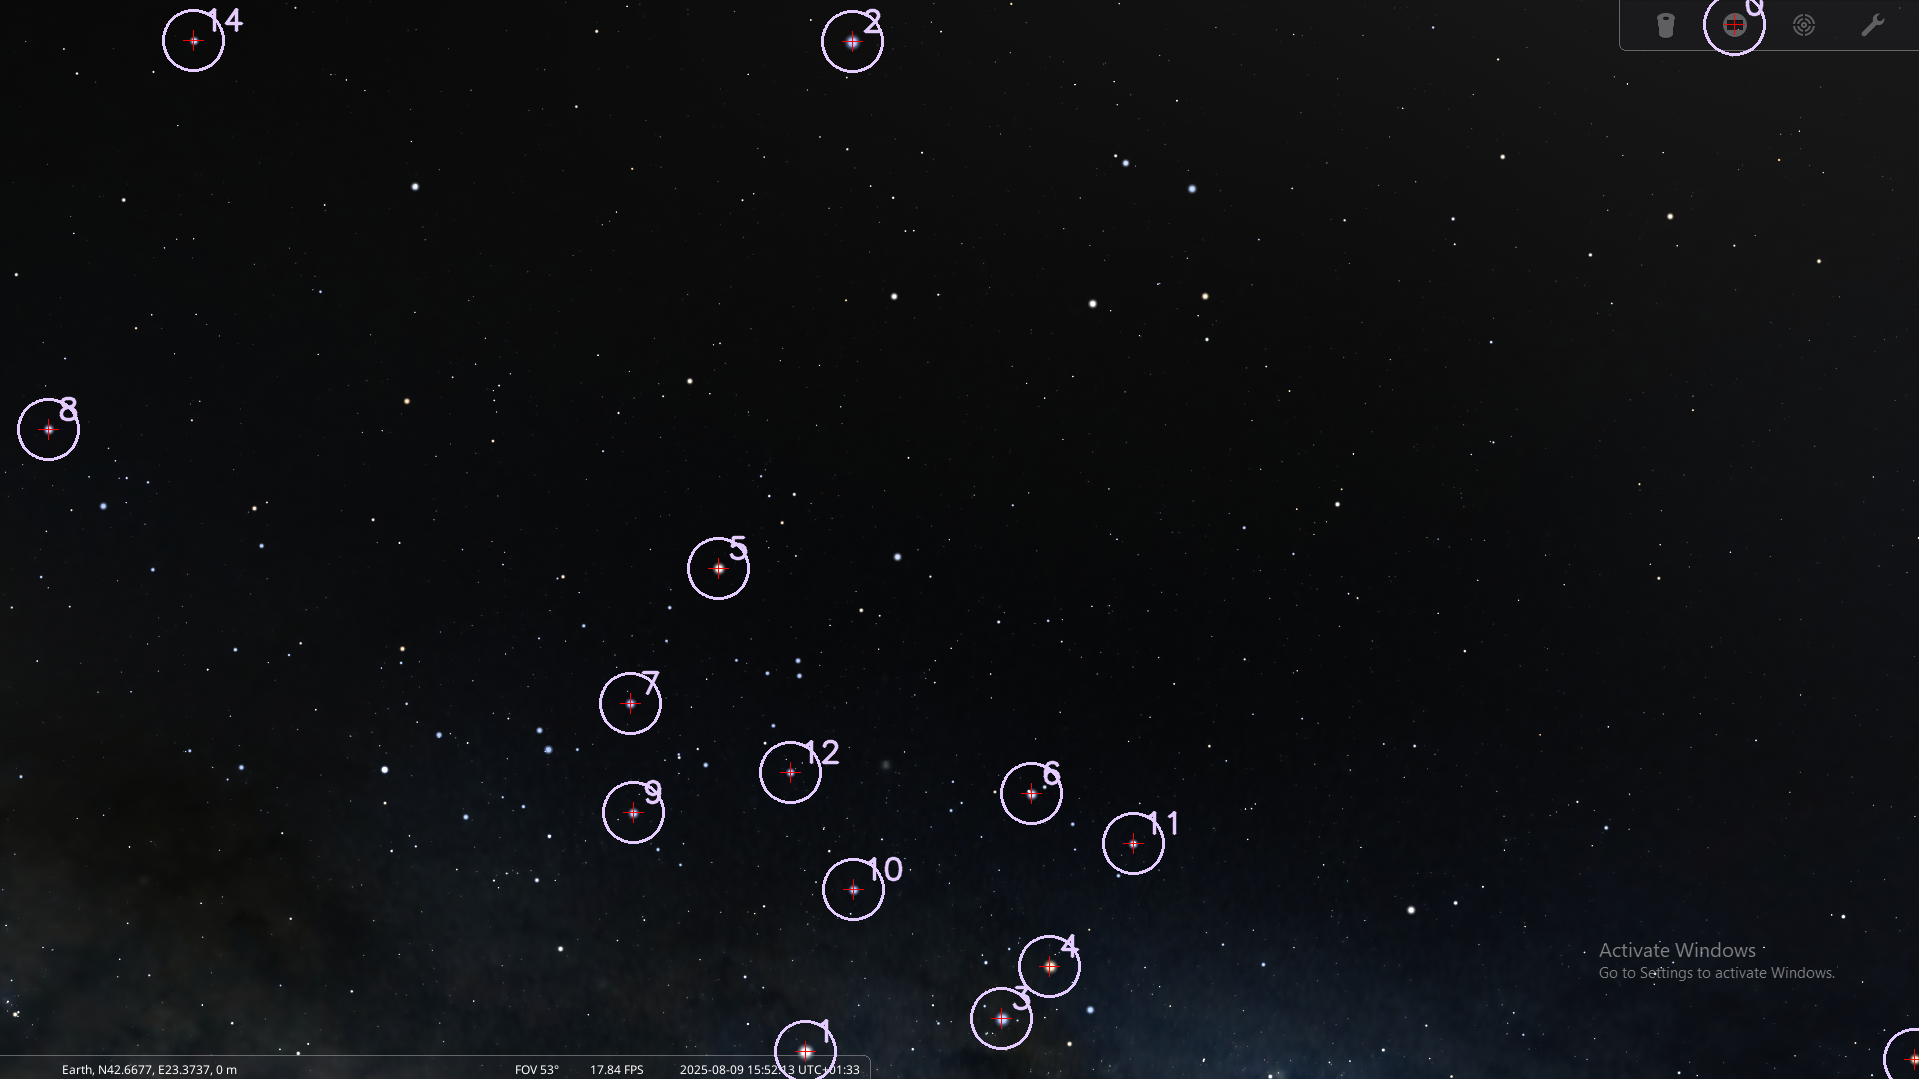
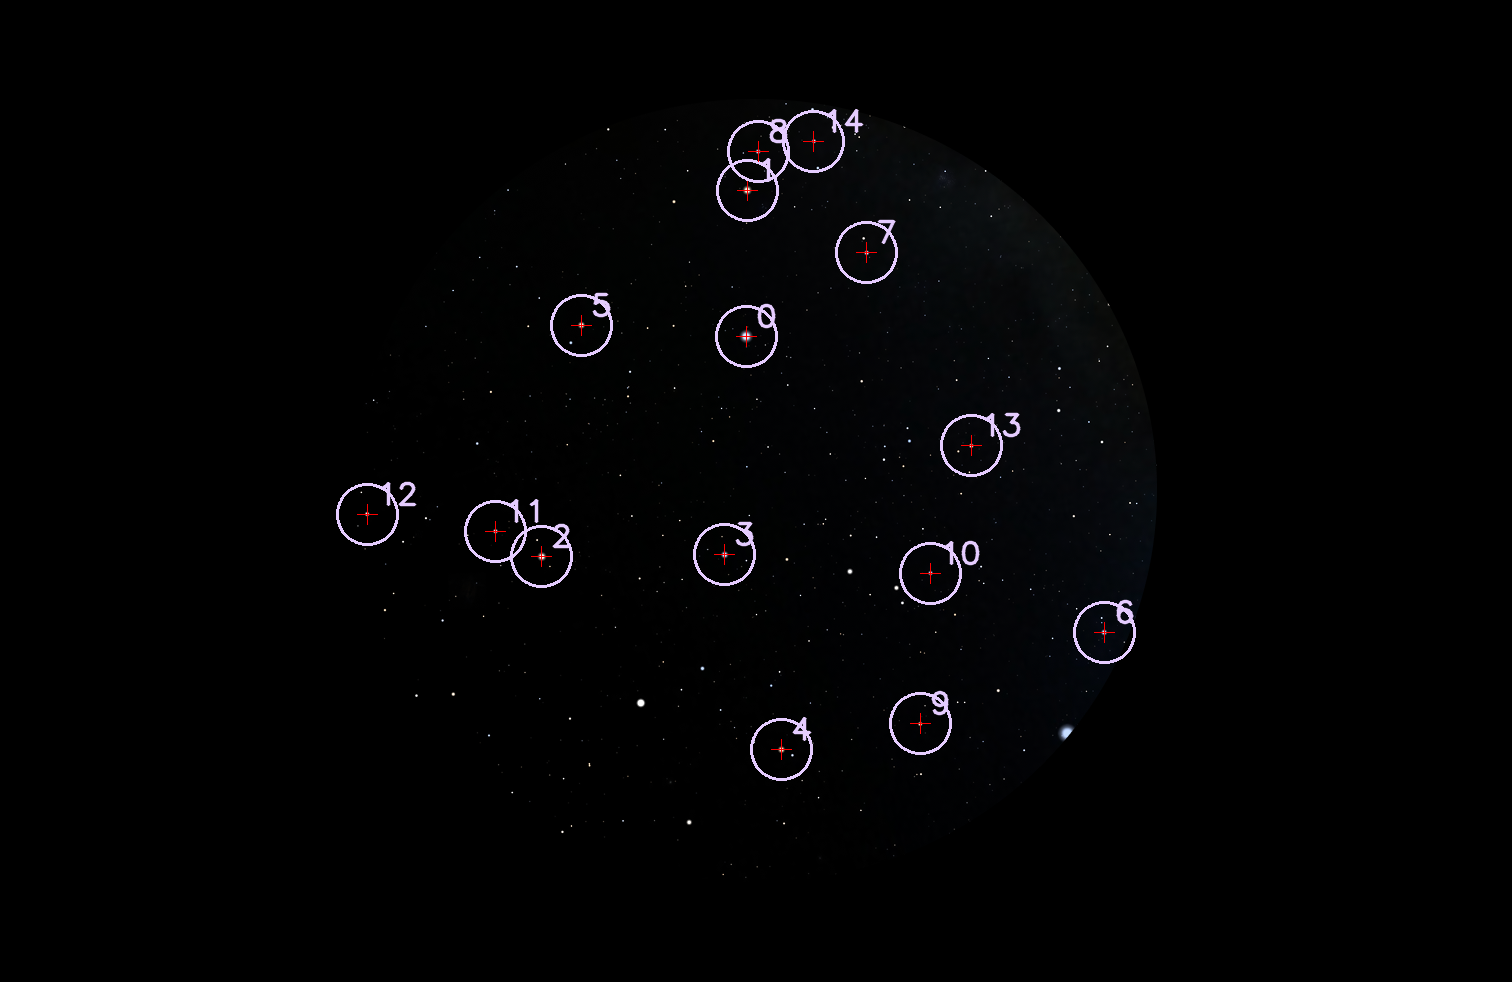
☆ baffle block simulation images

diff --git a/src/digital_twin/main.py b/src/digital_twin/main.py
@@ -16,8 +16,8 @@ image_processing_folder_path = os.path.abspath(
 sys.path.append(image_processing_folder_path)
 import image_processing_v6 as ip
 
-IMAGE_HEIGHT = 1964
-IMAGE_WIDTH = 3024
+IMAGE_HEIGHT = 982 #1964
+IMAGE_WIDTH = 1512 #3024
 ASPECT_RATIO = IMAGE_HEIGHT / IMAGE_WIDTH
 FOV_Y = 53
 FOV_X = math.degrees(2 * math.atan(math.tan(math.radians(FOV_Y / 2)) * (1 / ASPECT_RATIO)))
@@ -25,8 +25,8 @@ CENTER_X = IMAGE_WIDTH / 2
 CENTER_Y = IMAGE_HEIGHT / 2
 FOCAL_LENGTH_X = (IMAGE_WIDTH / 2) / math.tan(math.radians(FOV_X / 2))
 FOCAL_LENGTH_Y = (IMAGE_HEIGHT / 2) / math.tan(math.radians(FOV_Y / 2))
-TOLERANCE = 1
-IMAGE_FILE = "./test_images/testing63.png"
+TOLERANCE = 3
+IMAGE_FILE = "./test_images/testing68.png"
 NUM_STARS = 15
 EPSILON = 1e-6
 MIN_SUPPORT = 2
@@ -571,17 +571,6 @@ def lost_in_space():
         TOLERANCE,
         solutions
     )
-    
-    # DFS_optimized(
-    #     assignment,
-    #     image_stars,
-    #     sorted_hypothesises,
-    #     ang_dists,
-    #     all_catalog_angular_distances,
-    #     TOLERANCE,
-    #     solutions,
-    #     time.time()
-    # )
 
     scored_solutions = load_solution_scoring(
         solutions, ang_dists, all_catalog_angular_distances
